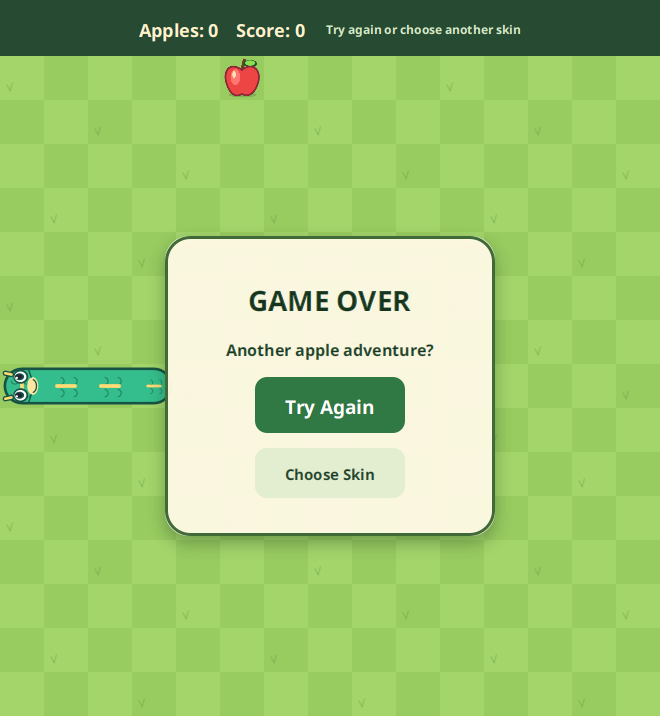
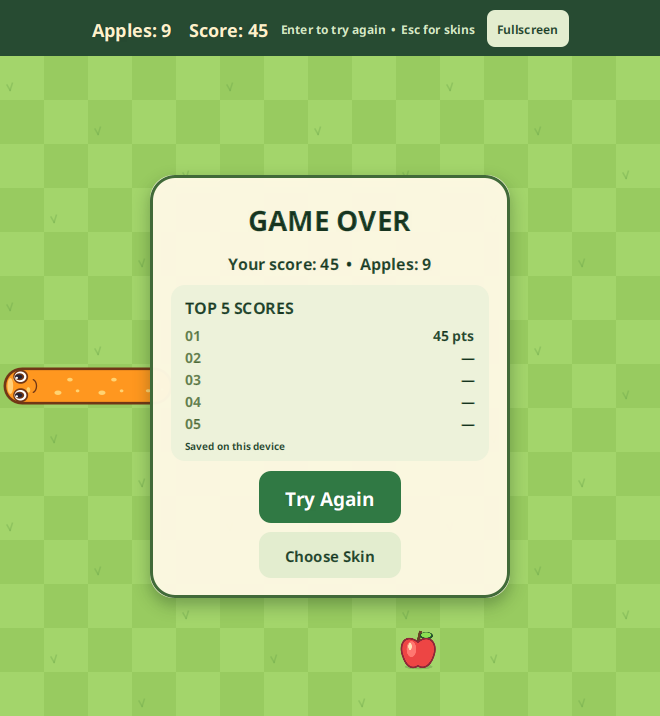
Add persistent local top-five score leaderboard

Changed region(s): [[0.0, 0.2458, 0.7879, 0.9525], [0.1212, 0.0, 0.8788, 0.1536]]

diff --git a/src/main/resources/resources/views/styling.css b/src/main/resources/resources/views/styling.css
@@ -140,3 +140,40 @@
     -fx-cursor: hand;
 }
 #fullscreenButton:hover { -fx-background-color: #fff4cf; }
+
+.leaderboard {
+    -fx-background-color: #edf2da;
+    -fx-background-radius: 14;
+    -fx-padding: 14 18;
+}
+.leaderboard .label, #endPanel .leaderboard .label {
+    -fx-font-family: "Arial";
+    -fx-font-size: 15;
+    -fx-font-weight: bold;
+    -fx-text-fill: #274b32;
+}
+.leaderboard .leaderboard-title, #endPanel .leaderboard .leaderboard-title {
+    -fx-font-size: 18;
+    -fx-padding: 0 0 5 0;
+}
+.leaderboard-row { -fx-padding: 2 0; }
+.leaderboard .leaderboard-rank, #endPanel .leaderboard .leaderboard-rank {
+    -fx-text-fill: #658050;
+}
+.leaderboard .leaderboard-status, #endPanel .leaderboard .leaderboard-status {
+    -fx-font-size: 11;
+    -fx-font-weight: normal;
+    -fx-padding: 5 0 0 0;
+}
+#endPanel { -fx-padding: 18; }
+#endPanel .button { -fx-padding: 10 26; }
+#endPanel .leaderboard { -fx-padding: 8 14; -fx-spacing: 2; }
+#endPanel .leaderboard-row {
+    -fx-padding: 0;
+    -fx-min-height: 20;
+    -fx-pref-height: 20;
+    -fx-max-height: 20;
+}
+#endPanel .leaderboard .label { -fx-font-size: 14; }
+#endPanel .leaderboard .leaderboard-title { -fx-font-size: 16; -fx-padding: 0 0 3 0; }
+#endPanel .leaderboard .leaderboard-status { -fx-font-size: 10; -fx-padding: 3 0 0 0; }

diff --git a/src/main/java/com/comp2042/Leaderboard.java b/src/main/java/com/comp2042/Leaderboard.java
@@ -1,0 +1,68 @@
+package com.comp2042;
+
+import java.io.IOException;
+import java.io.UncheckedIOException;
+import java.nio.charset.StandardCharsets;
+import java.nio.file.AtomicMoveNotSupportedException;
+import java.nio.file.Files;
+import java.nio.file.Path;
+import java.nio.file.StandardCopyOption;
+import java.util.ArrayList;
+import java.util.Comparator;
+import java.util.List;
+import java.util.stream.Stream;
+
+public final class Leaderboard {
+    private static final Leaderboard LOCAL = new Leaderboard(
+            Path.of(System.getProperty("snake.data.dir", "data"), "leaderboard.txt"));
+    private final Path file;
+    private final ArrayList<Integer> scores = new ArrayList<>();
+    private boolean persistent = true;
+
+    public Leaderboard(Path file) {
+        this.file = file.toAbsolutePath();
+        if (Files.exists(this.file)) {
+            try (Stream<String> lines = Files.lines(this.file, StandardCharsets.UTF_8)) {
+                lines.limit(1000).forEach(line -> {
+                    try {
+                        int score = Integer.parseInt(line.trim());
+                        if (score >= 0) scores.add(score);
+                    } catch (NumberFormatException ignored) { }
+                });
+            } catch (IOException | UncheckedIOException | SecurityException exception) { persistent = false; }
+        }
+        trim();
+    }
+
+    public static Leaderboard local() { return LOCAL; }
+    public List<Integer> scores() { return List.copyOf(scores); }
+    public boolean isPersistent() { return persistent; }
+
+    public void record(int score) {
+        if (score < 0) throw new IllegalArgumentException("Score must not be negative");
+        scores.add(score); trim();
+        Path temporary = null;
+        try {
+            Files.createDirectories(file.getParent());
+            temporary = Files.createTempFile(file.getParent(), "leaderboard-", ".tmp");
+            Files.write(temporary, scores.stream().map(String::valueOf).toList(), StandardCharsets.UTF_8);
+            try {
+                Files.move(temporary, file, StandardCopyOption.ATOMIC_MOVE, StandardCopyOption.REPLACE_EXISTING);
+            } catch (AtomicMoveNotSupportedException exception) {
+                Files.move(temporary, file, StandardCopyOption.REPLACE_EXISTING);
+            }
+            persistent = true;
+        } catch (IOException | SecurityException exception) { persistent = false; }
+        finally {
+            if (temporary != null) {
+                try { Files.deleteIfExists(temporary); }
+                catch (IOException | SecurityException ignored) { }
+            }
+        }
+    }
+
+    private void trim() {
+        scores.sort(Comparator.reverseOrder());
+        if (scores.size() > 5) scores.subList(5, scores.size()).clear();
+    }
+}

diff --git a/src/main/java/com/comp2042/GameView.java b/src/main/java/com/comp2042/GameView.java
@@ -17,6 +17,8 @@ public class GameView {
     public Label gameOverLabel, gameWonLabel, scoreLabel, hintLabel;
     public Button tryAgainButton, menuButton, fullscreenButton;
     public VBox endPanel;
+    private LeaderboardView leaderboard;
+    private Label endMessage;
     private final Game game;
     private double fullScale = 1;
     private Snake displayedSnake;
@@ -42,9 +44,10 @@ public class GameView {
         menuButton = new Button("Choose Skin"); menuButton.setId("chooseSkinButton");
         // Buttons never steal the arrow keys needed to steer after restarting.
         tryAgainButton.setFocusTraversable(false); menuButton.setFocusTraversable(false);
-        Label message = new Label("Another apple adventure?"); message.setId("endMessage");
-        endPanel = new VBox(16, gameOverLabel, gameWonLabel, message, tryAgainButton, menuButton);
-        endPanel.setAlignment(Pos.CENTER); endPanel.setMaxSize(330, 300);
+        endMessage = new Label("Your score: 0"); endMessage.setId("endMessage");
+        leaderboard = new LeaderboardView();
+        endPanel = new VBox(10, gameOverLabel, gameWonLabel, endMessage, leaderboard, tryAgainButton, menuButton);
+        endPanel.setAlignment(Pos.CENTER); endPanel.setMaxSize(360, javafx.scene.layout.Region.USE_PREF_SIZE);
         endPanel.setId("endPanel"); endPanel.setVisible(false); endPanel.setManaged(false);
         updateScoreLabel(); drawGrid(apple, snake, gc);
     }
@@ -110,6 +113,10 @@ public class GameView {
         boolean show = gameOverLabel.isVisible() || gameWonLabel.isVisible();
         endPanel.setVisible(show); endPanel.setManaged(show);
         if (show) hintLabel.setText("Enter to try again  •  Esc for skins");
+    }
+    public void refreshLeaderboard() {
+        leaderboard.refresh();
+        endMessage.setText("Your score: " + game.getScorePoints() + "  •  Apples: " + game.getScore());
     }
     public void updateScoreLabel() {
         scoreLabel.setText("Apples: " + game.getScore() + "    Score: " + game.getScorePoints());

diff --git a/src/main/java/com/comp2042/LeaderboardView.java b/src/main/java/com/comp2042/LeaderboardView.java
@@ -1,0 +1,40 @@
+package com.comp2042;
+
+import javafx.geometry.Pos;
+import javafx.scene.control.Label;
+import javafx.scene.layout.HBox;
+import javafx.scene.layout.Priority;
+import javafx.scene.layout.Region;
+import javafx.scene.layout.VBox;
+import java.util.ArrayList;
+import java.util.List;
+
+public final class LeaderboardView extends VBox {
+    private final List<Label> values = new ArrayList<>();
+    private final Label status = new Label();
+
+    public LeaderboardView() {
+        super(5);
+        getStyleClass().add("leaderboard");
+        Label title = new Label("TOP 5 SCORES"); title.getStyleClass().add("leaderboard-title");
+        getChildren().add(title);
+        for (int rank = 1; rank <= 5; rank++) {
+            Label position = new Label(String.format("%02d", rank));
+            position.getStyleClass().add("leaderboard-rank");
+            Region spacer = new Region(); HBox.setHgrow(spacer, Priority.ALWAYS);
+            Label value = new Label(); values.add(value);
+            HBox row = new HBox(16, position, spacer, value);
+            row.setAlignment(Pos.CENTER_LEFT); row.getStyleClass().add("leaderboard-row");
+            getChildren().add(row);
+        }
+        status.getStyleClass().add("leaderboard-status"); status.setWrapText(true);
+        getChildren().add(status); refresh();
+    }
+
+    public void refresh() {
+        List<Integer> scores = Leaderboard.local().scores();
+        for (int index = 0; index < 5; index++)
+            values.get(index).setText(index < scores.size() ? scores.get(index) + " pts" : "—");
+        status.setText(Leaderboard.local().isPersistent() ? "Saved on this device" : "Scores kept for this session only");
+    }
+}

diff --git a/src/main/java/com/comp2042/GameController.java b/src/main/java/com/comp2042/GameController.java
@@ -18,6 +18,7 @@ public class GameController {
     public static KeyCode key = KeyCode.LEFT;
     public static KeyCode lastKey = KeyCode.LEFT;
     private boolean keyPressed;
+    private boolean scoreRecorded;
     private final Timeline animation;
 
     public GameController(Snake snake, Coin apple, Game game, GameView view, Obstacle obstacle, Stage stage) {
@@ -38,6 +39,11 @@ public class GameController {
         }
         keyPressed = false;
         gameView.drawGrid(coin, snek, obstacle, gameView.gc, false, 0);
+        if ((snek.getDead() || game.gameWon()) && !scoreRecorded) {
+            scoreRecorded = true;
+            Leaderboard.local().record(game.getScorePoints());
+            gameView.refreshLeaderboard();
+        }
         gameView.updateScoreLabel(); gameView.gameOver(snek); gameView.gameWon();
         if (snek.getDead() || game.gameWon()) animation.stop();
     }
@@ -93,7 +99,7 @@ public class GameController {
         obstacle.reset(); game.resetScore();
         snek = new Snake(game.getWidth(), game.getHeight(), game.isNoBorder(), obstacle, snek.getSkin());
         coin = new Coin(game.getWidth(), game.getHeight(), snek, obstacle);
-        key = lastKey = KeyCode.LEFT; keyPressed = false;
+        key = lastKey = KeyCode.LEFT; keyPressed = false; scoreRecorded = false;
         animation.setRate(game.getSpeed());
         gameView.gameOver(snek); gameView.gameWon(); gameView.updateScoreLabel(); gameView.showReady();
         gameView.drawGrid(coin, snek, obstacle, gameView.gc, false, 0);

diff --git a/src/main/java/com/comp2042/ViewManager.java b/src/main/java/com/comp2042/ViewManager.java
@@ -18,6 +18,7 @@ public class ViewManager {
     private AnchorPane root;
 
     private Stage gameStage;
+    private MainMenuController menuController;
 
     private Image snakeLogo = new Image("resources/views/res/SnakeLogoWhite.png");
 
@@ -29,11 +30,12 @@ public class ViewManager {
             FXMLLoader loader = new FXMLLoader();
             loader.setLocation(Main.class.getResource("/resources/views/MainMenu.fxml"));
             root = loader.load();
+            menuController = loader.getController();
         } catch (IOException exception) {
             exception.printStackTrace();
         }
 
-        Scene mainScene = new Scene(new StackPane(root), 550, 400);
+        Scene mainScene = new Scene(new StackPane(root), 850, 440);
         mainScene.addEventFilter(KeyEvent.KEY_PRESSED, event -> {
             if (event.getCode() == KeyCode.F11) {
                 primaryStage.setFullScreen(!primaryStage.isFullScreen()); event.consume();
@@ -43,6 +45,7 @@ public class ViewManager {
         });
 
         primaryStage.setScene(mainScene);
+        primaryStage.setOnShowing(event -> menuController.refreshLeaderboard());
         primaryStage.setResizable(true);
         primaryStage.setFullScreenExitKeyCombination(KeyCombination.NO_MATCH);
         primaryStage.setFullScreenExitHint("Press F11 or Esc to exit fullscreen");

diff --git a/src/main/java/com/comp2042/MainMenuController.java b/src/main/java/com/comp2042/MainMenuController.java
@@ -17,14 +17,20 @@ public class MainMenuController {
 
     @FXML private ChoiceBox<SnakeSkin> skinPicker;
     @FXML private Canvas skinPreview;
+    @FXML private javafx.scene.layout.VBox leaderboardContainer;
+    private LeaderboardView leaderboard;
 
     @FXML
     private void initialize() {
+        leaderboard = new LeaderboardView();
+        leaderboardContainer.getChildren().add(leaderboard);
         skinPicker.getItems().setAll(SnakeSkin.values());
         skinPicker.setValue(SnakeSkin.ORANGE);
         skinPicker.setOnAction(event -> drawSkinPreview());
         drawSkinPreview();
     }
+
+    public void refreshLeaderboard() { leaderboard.refresh(); }
 
     private void drawSkinPreview() {
         var gc = skinPreview.getGraphicsContext2D();

diff --git a/docs/snake-skins.md b/docs/snake-skins.md
@@ -43,3 +43,13 @@ The existing JavaFX 25.0.1 dependency needs JDK 23 or later at runtime. JDK 25 i
 The Maven package build passes with JDK 25. Headless JavaFX checks cover all five skins, menu/start-button wiring, apple scoring and growth, turns and reverse-direction rejection, wall collision, the actual Try Again button, preserving the skin after retry, moving after retry, a full-board win without hanging during food spawning, restarting after victory, returning to skin selection, and the 660 × 716 scene with 44px tiles. The artwork, board and loss-screen snapshots were visually inspected. These checks do not replace manual gameplay on Windows.
 
 Fullscreen checks pass for menu and game F11 shortcuts, the fullscreen button, Esc, plus/minus, starting a game from the fullscreen menu, centered square boards at 1920 × 1080, 1280 × 720, 560 × 500 and 660 × 716, and loss/retry and WASD after resizing. These are headless JavaFX checks; native Windows fullscreen has not been manually tested.
+
+## Top five scores
+
+The menu and game-over / victory panel show the five highest scores, ranked from highest to lowest. Each completed round is recorded once, including tied scores. Retrying or returning to the menu does not submit the same round again; restarting or leaving an unfinished round does not submit it. The latest round's score and apple count appear above the leaderboard.
+
+Scores persist locally in `data/leaderboard.txt`, relative to the directory used to launch the game. This folder is excluded from Git. This is a leaderboard for this device, rather than an online leaderboard. If the file cannot be saved, the leaderboard remains usable for the current session and displays that status.
+
+![Menu with top five leaderboard](leaderboard-menu.png)
+
+Leaderboard checks pass for descending top-five ranking, ties, empty and malformed files, saving and reloading, write-failure fallback, menu and end-screen rendering, fitting a 560 × 500 window, recording losses and wins once, retrying without duplicate submissions, and refreshing the menu after a round.
